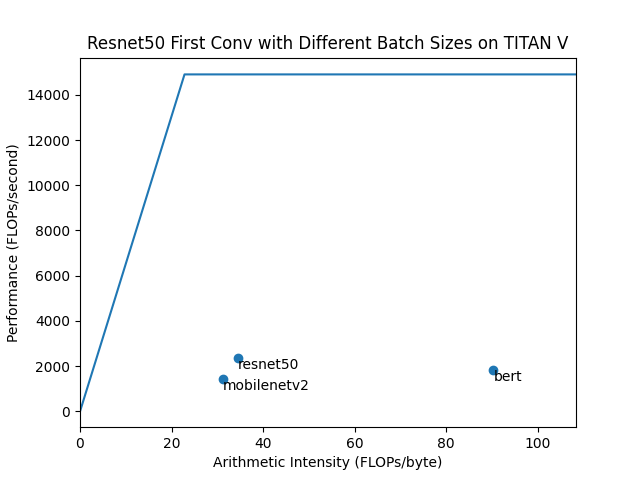
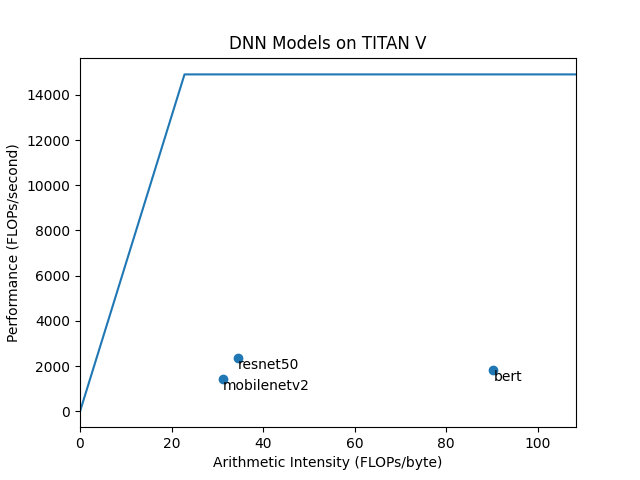
update roofline title

Changed region(s): [[0.125, 0.0625, 0.875, 0.125]]

diff --git a/parse_stats.py b/parse_stats.py
@@ -71,7 +71,7 @@ def roofline(filename):
     fig = ax.scatter(x, y)
     ax.set_ylabel("Performance (FLOPs/second)")
     ax.set_xlabel("Arithmetic Intensity (FLOPs/byte)")
-    ax.set_title("Resnet50 First Conv with Different Batch Sizes on TITAN V")
+    ax.set_title("DNN Models on TITAN V")
     for i, l in enumerate(labels):
         ax.annotate(l, (x[i], y[i] - 500))
     
